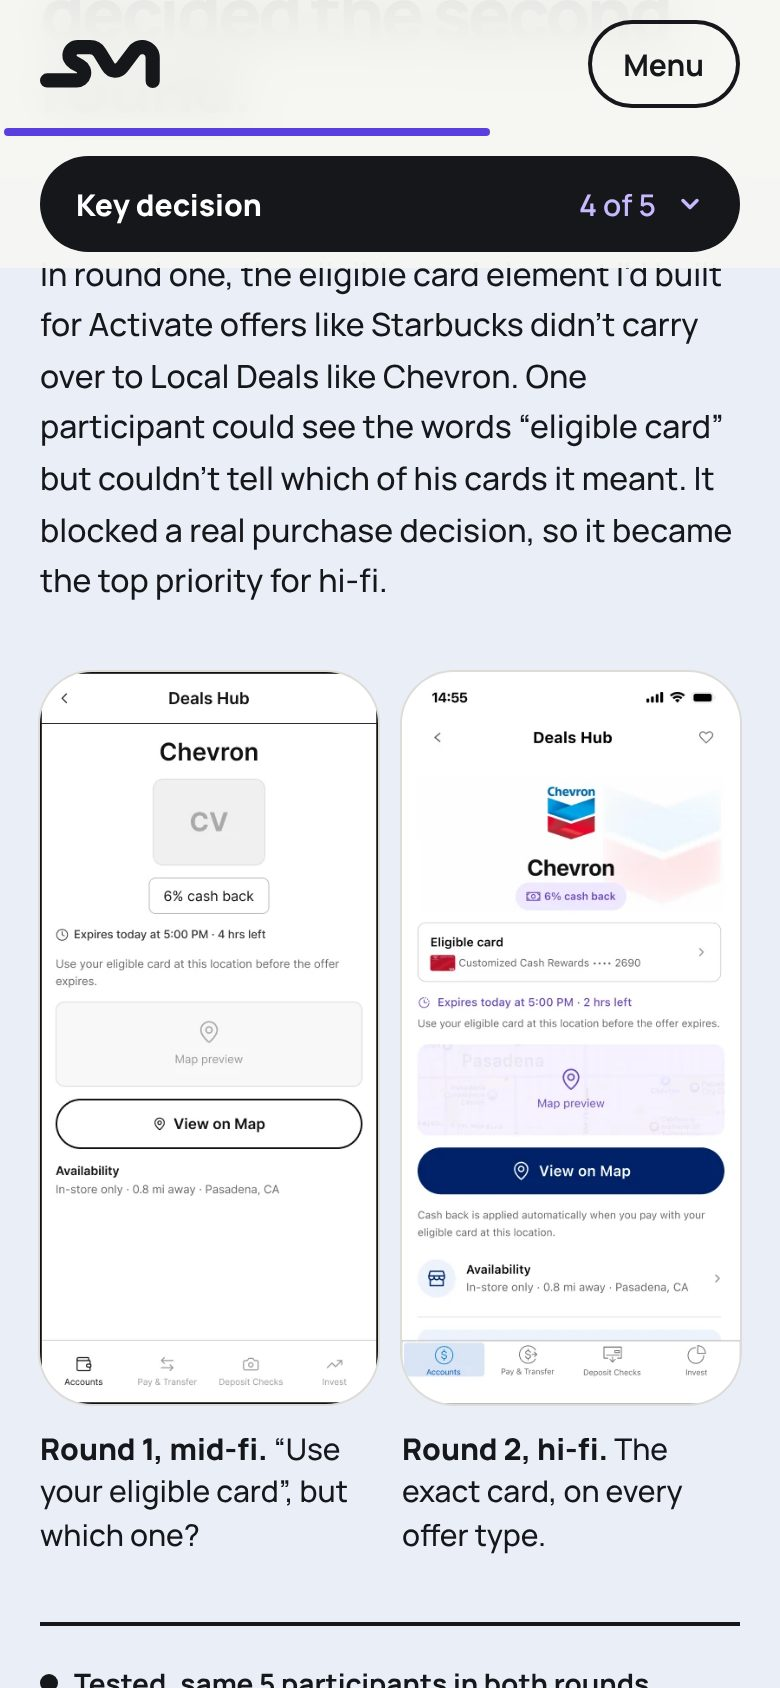
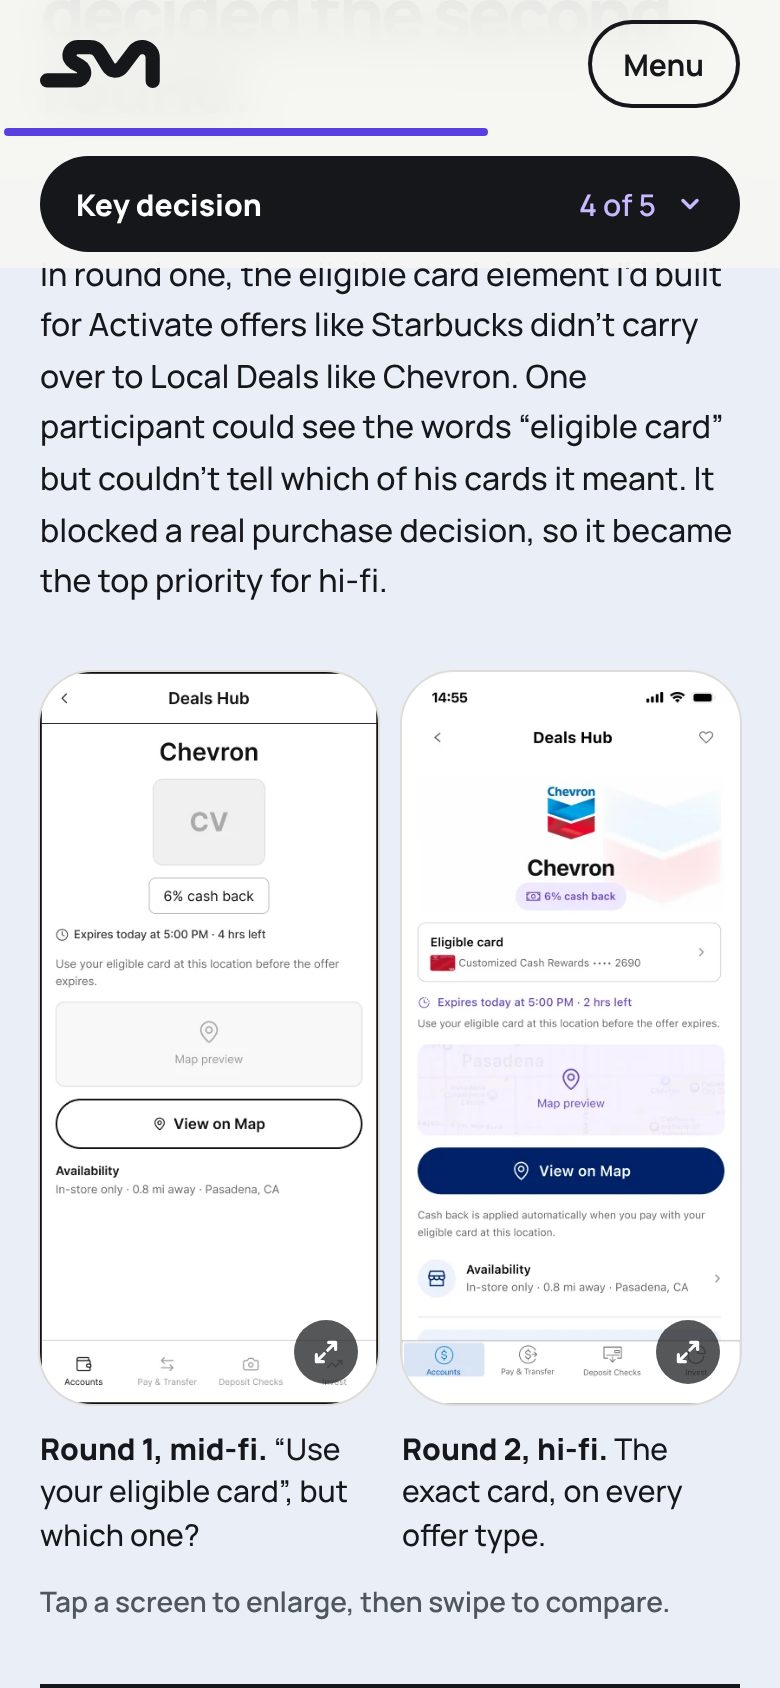
Screenshots: final QA set, lightbox, Figma export list
Claude-Session: https://claude.ai/code/session_017xgEv6Gt2wFWXs81RmJ9Gc

Changed region(s): [[0.0308, 0.9242, 0.9538, 1.0], [0.8308, 0.7701, 0.9231, 0.8318], [0.3692, 0.7701, 0.4615, 0.8318]]

diff --git a/redesign-v2/figma-exports.md b/redesign-v2/figma-exports.md
@@ -1,0 +1,47 @@
+# Figma frames to export for sharper screenshots
+
+Export each frame as **PNG at 3x** (select frame → Export → 3x → PNG). Keep Figma's file names; I map them back. Zip and attach.
+
+Wide overview images (Frant lo-fi overview, Deals Hub mid-fi overview, MoveEase lo-fi sketches and mid-fi flow) are composites of whole pages; 2x is enough for those, or keep current ones.
+
+## Priority 1 — shown large or in before/after comparisons
+
+| Site image | Figma file | Page | Frame | Link |
+|---|---|---|---|---|
+| `frant/overdue` | End-to-End Application | Hi Fi | 09 Clients · Overdue | [open](https://www.figma.com/design/xxOP7m8bagR3tfM7vdBKXf/?node-id=114-497) |
+| `frant/home` | End-to-End Application | Hi Fi | 05 Home | [open](https://www.figma.com/design/xxOP7m8bagR3tfM7vdBKXf/?node-id=114-124) |
+| `frant/visit-logged` | End-to-End Application | Hi Fi | 21 Profile · Visit logged | [open](https://www.figma.com/design/xxOP7m8bagR3tfM7vdBKXf/?node-id=205-834) |
+| `frant/lofi-overdue` | End-to-End Application | Lo Fi | 9. Client List — Overdue tab | [open](https://www.figma.com/design/xxOP7m8bagR3tfM7vdBKXf/?node-id=2-153) |
+| `deals/mid-chevron` | Deals Hub | Mid Fi | Local Deal | [open](https://www.figma.com/design/6keENzTOUKuGbDpB0tDPLS/?node-id=34-3121) |
+| `deals/local` | Deals Hub | Hi Fi | Local Deal | [open](https://www.figma.com/design/6keENzTOUKuGbDpB0tDPLS/?node-id=189-616) |
+| `deals/activate` | Deals Hub | Hi Fi | Activate | [open](https://www.figma.com/design/6keENzTOUKuGbDpB0tDPLS/?node-id=115-11) |
+| `deals/explore` | Deals Hub | Hi Fi | Deals Hub | [open](https://www.figma.com/design/6keENzTOUKuGbDpB0tDPLS/?node-id=106-1914) |
+| `deals/offers` | Deals Hub | Hi Fi | My Offers | [open](https://www.figma.com/design/6keENzTOUKuGbDpB0tDPLS/?node-id=194-2271) |
+| `moveease/tasks-before` | MoveEase | Hi-Fi Wireframes | My Tasks | [open](https://www.figma.com/design/wPhQtkowoAfkDJvvtNnCaB/?node-id=211-1161) |
+| `moveease/tasks` | MoveEase | Hi-Fi Wireframes (updated) | My Tasks | [open](https://www.figma.com/design/wPhQtkowoAfkDJvvtNnCaB/?node-id=373-1107) |
+| `moveease/detail-before` | MoveEase | Hi-Fi Wireframes | Task Detail — Victoria | [open](https://www.figma.com/design/wPhQtkowoAfkDJvvtNnCaB/?node-id=215-1459) |
+| `moveease/detail-after` | MoveEase | Hi-Fi Wireframes (updated) | Task Detail — Victoria | [open](https://www.figma.com/design/wPhQtkowoAfkDJvvtNnCaB/?node-id=373-891) |
+| `moveease/dashboard` | MoveEase | Hi-Fi Wireframes (updated) | Dashboard | [open](https://www.figma.com/design/wPhQtkowoAfkDJvvtNnCaB/?node-id=373-1185) |
+| `moveease/calendar` | MoveEase | Hi-Fi Wireframes (updated) | Calendar | [open](https://www.figma.com/design/wPhQtkowoAfkDJvvtNnCaB/?node-id=373-647) |
+
+## Priority 2 — phone rows inside "More on …"
+
+| Site image | Figma file | Page | Frame | Link |
+|---|---|---|---|---|
+| `frant/sent-check` | End-to-End Application | Hi Fi | 19 Profile · Sent it? | [open](https://www.figma.com/design/xxOP7m8bagR3tfM7vdBKXf/?node-id=205-627) |
+| `frant/visit-check` | End-to-End Application | Hi Fi | 20 Home · Visit check | [open](https://www.figma.com/design/xxOP7m8bagR3tfM7vdBKXf/?node-id=205-751) |
+| `frant/message` | End-to-End Application | Hi Fi | 11 Message draft | [open](https://www.figma.com/design/xxOP7m8bagR3tfM7vdBKXf/?node-id=115-449) |
+| `frant/schedule` | End-to-End Application | Hi Fi | 18 Schedule | [open](https://www.figma.com/design/xxOP7m8bagR3tfM7vdBKXf/?node-id=116-825) |
+| `frant/lofi-home-numbers` | End-to-End Application | Lo Fi | 4. Home — Option A | [open](https://www.figma.com/design/xxOP7m8bagR3tfM7vdBKXf/?node-id=1-73) |
+| `frant/lofi-home-names` | End-to-End Application | Lo Fi | 5. Home — Option B | [open](https://www.figma.com/design/xxOP7m8bagR3tfM7vdBKXf/?node-id=1-5) |
+| `deals/shop` | Deals Hub | Hi Fi | Shop online | [open](https://www.figma.com/design/6keENzTOUKuGbDpB0tDPLS/?node-id=184-2) |
+| `deals/activated` | Deals Hub | Hi Fi | Activated (the one without the top banner) | [open](https://www.figma.com/design/6keENzTOUKuGbDpB0tDPLS/?node-id=211-6072) |
+| `deals/entry` | Deals Hub | Hi Fi | Entry point | [open](https://www.figma.com/design/6keENzTOUKuGbDpB0tDPLS/?node-id=99-1898) |
+
+## Priority 3 — UI kit pages (wide, 2x is fine)
+
+| Site image | Figma file | Page | Frame | Link |
+|---|---|---|---|---|
+| `frant/kit-color` | End-to-End Application | UI Kit | 01 · Color | [open](https://www.figma.com/design/xxOP7m8bagR3tfM7vdBKXf/?node-id=215-54) |
+| `frant/kit-status` | End-to-End Application | UI Kit | 07 · Status | [open](https://www.figma.com/design/xxOP7m8bagR3tfM7vdBKXf/?node-id=216-274) |
+
